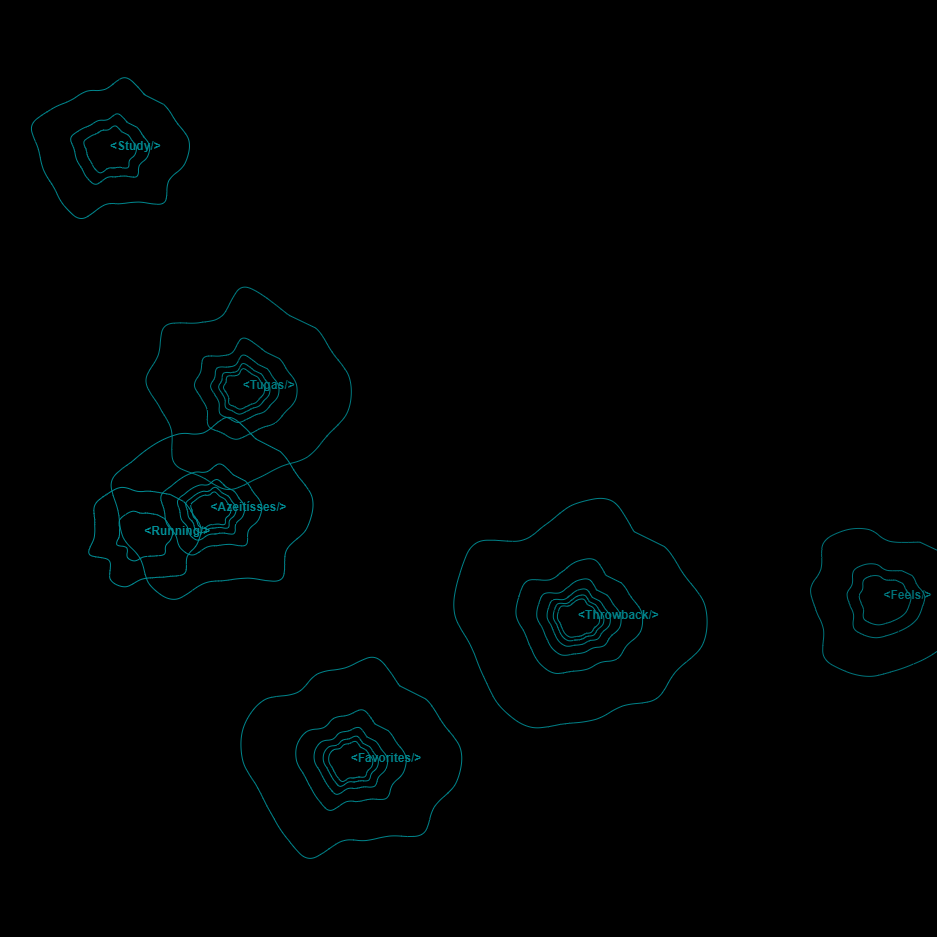
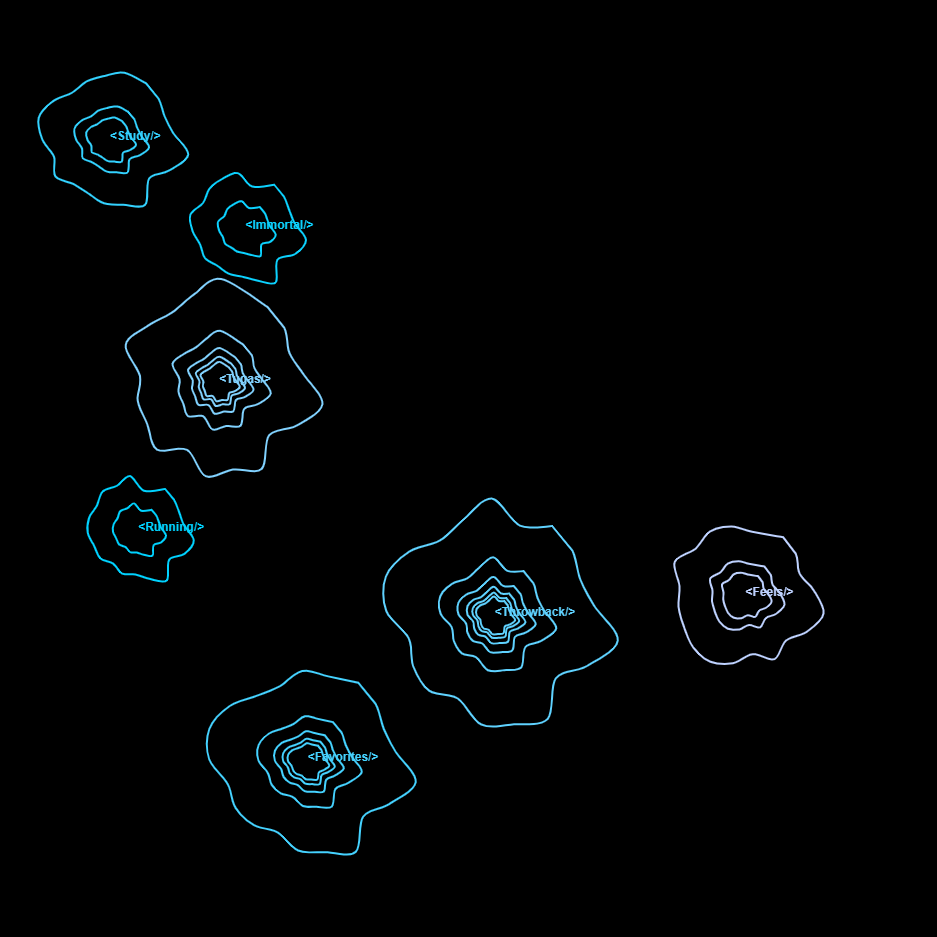
imagens

diff --git a/js/tracks.js b/js/tracks.js
@@ -152,7 +152,7 @@ function setup() {
                         user: user.name,
                         song: songs[i].name,
                         id: songs[i].id,
-                        x: (songs[i].duration / 2) + ((width - (songs[i].duration / 2)) / totalSongs) * i,
+                        x: map(getAudioFeatures(i).speed, min(allSpeed), max(allSpeed), 120, width - 120),
                         y: map(allLoudness[i], min(allLoudness), max(allLoudness), height - 80, 80),
                         raio: (songs[i].duration / 3),
                         color: map(allPositivity[i], min(allPositivity), max(allPositivity), 0, 255),
@@ -443,7 +443,7 @@ function draw() {
     if(flowers.length > 0) {
         for(let i = 0; i < flowers.length; i++) {
             flowers[i].display();
-            this.x = width/flowers.length * i;
+            this.x = map(getAudioFeatures(i).speed, min(allSpeed), max(allSpeed), 120, width - 120);
         }
 
         for(let i = 0; i < flowers.length; i++) {

diff --git a/tracks.php b/tracks.php
@@ -78,10 +78,10 @@ $session_value = (isset($_SESSION['userData'])) ? $_SESSION['userData'] : '';
             <div><img src="icons/facebook.png"></div>
             <div>Facebook</div>
         </div>
-        <div class="menu-option">
+        <!--div class="menu-option">
             <div><img src="icons/instagram.png"></div>
             <div>Instagram</div>
-        </div>
+        </div-->
         <div class="menu-option">
             <div><img src="icons/twitter.png"></div>
             <div>Twitter</div>
